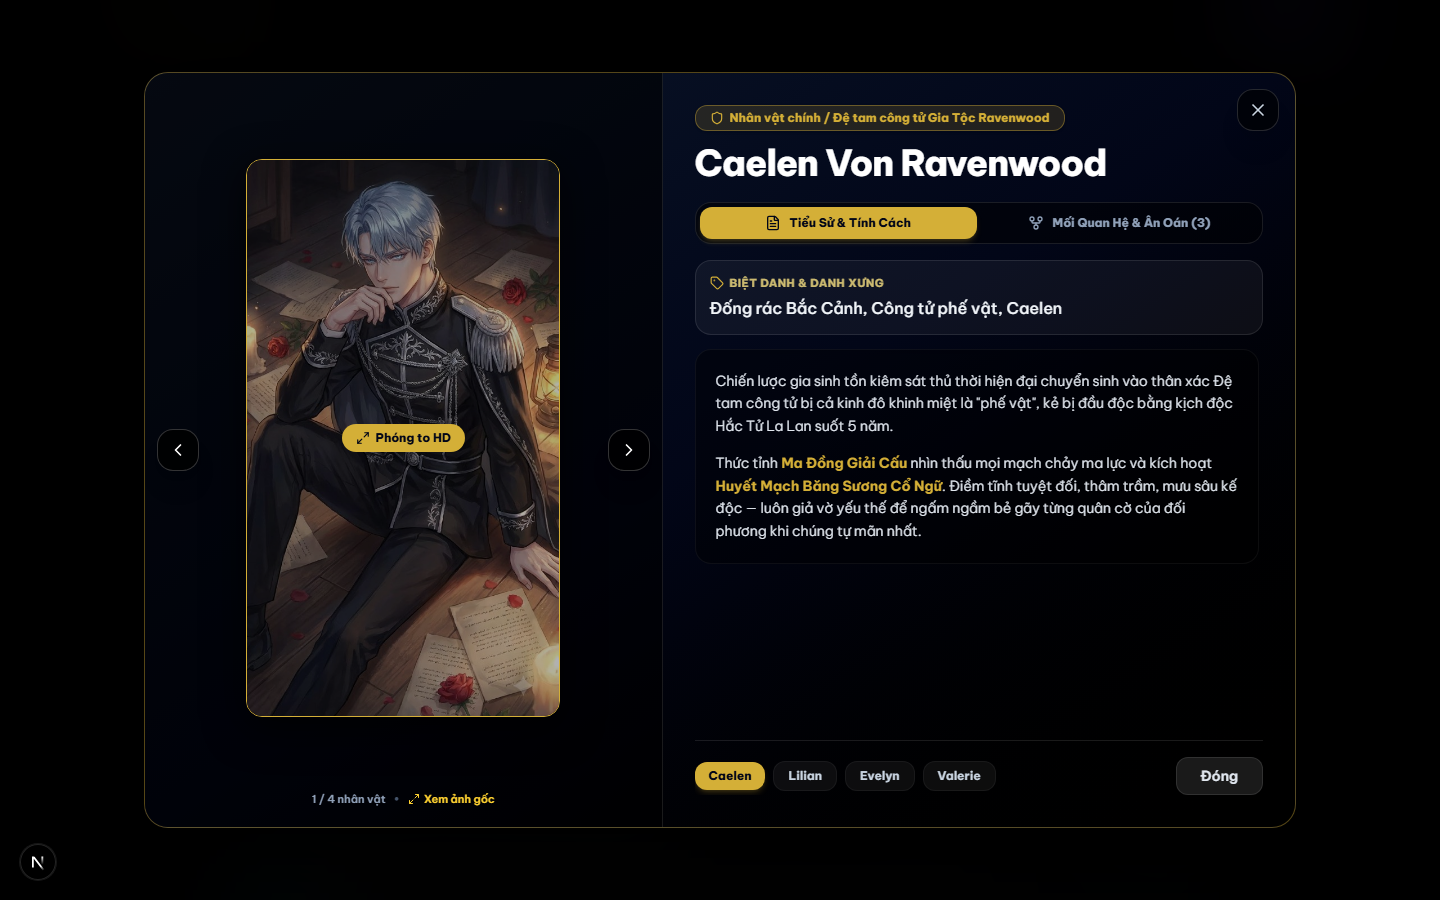
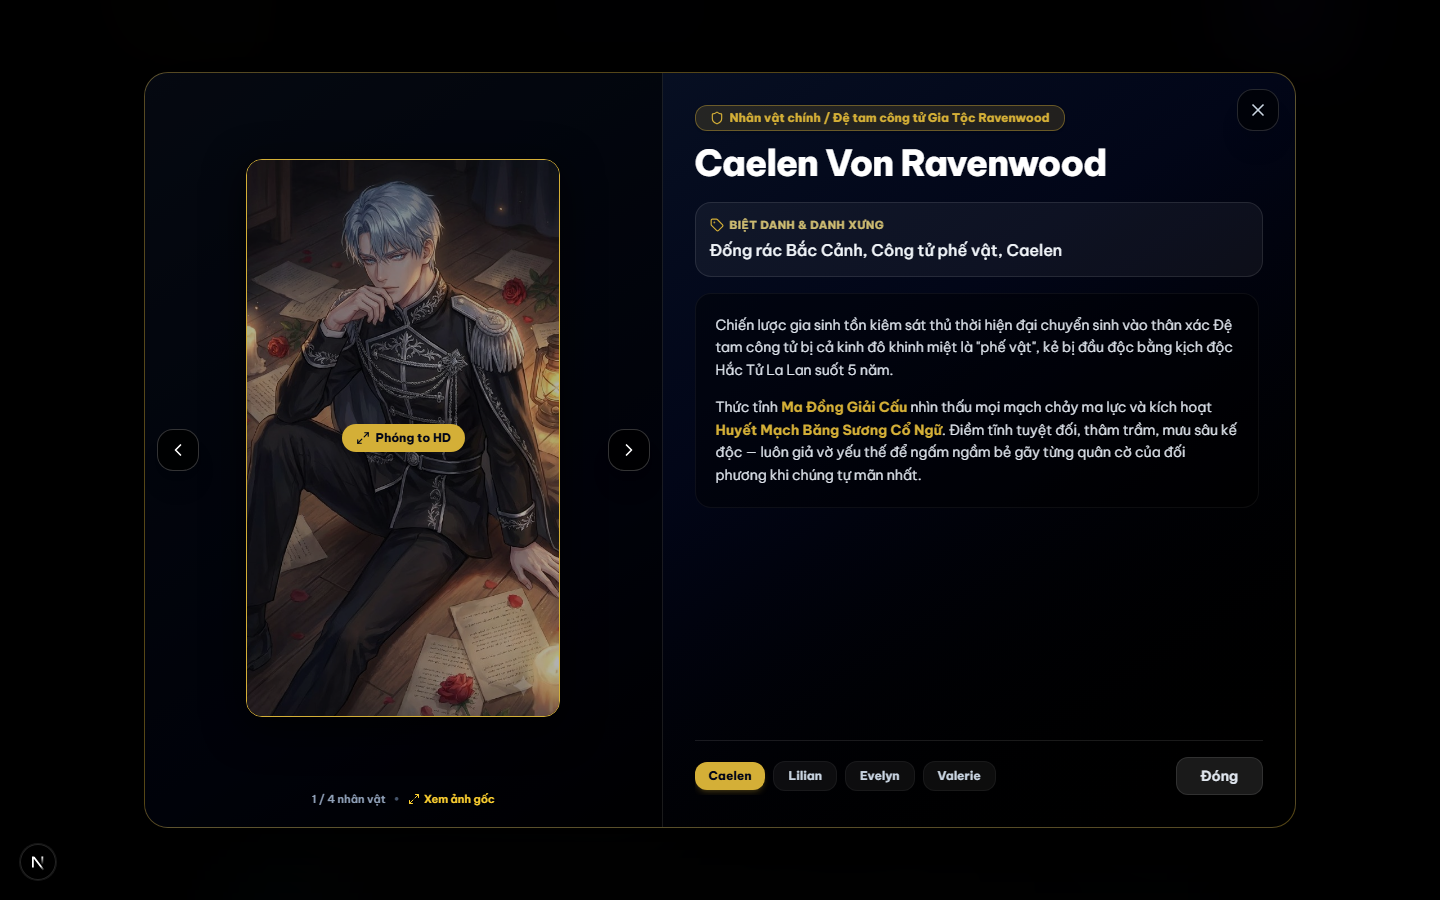
fix(ui): enhance modal viewport centering and ambient glow styling

Changed region(s): [[0.4688, 0.2178, 0.875, 0.6222]]

diff --git a/src/components/CharacterGallery.tsx b/src/components/CharacterGallery.tsx
@@ -233,18 +233,18 @@ export function CharacterGallery({ characters }: CharacterGalleryProps) {
       </div>
 
       {/* ========================================================================= */}
-      {/* UNIVERSAL CHARACTER DOSSIER MODAL (PORTALED TO BODY - ALWAYS CENTERED) */}
+      {/* UNIVERSAL CHARACTER DOSSIER MODAL (PORTALED TO BODY - ALWAYS CENTERED IN FULL VIEWPORT) */}
       {/* ========================================================================= */}
       {mounted && selectedChar && !isFullscreenImage && createPortal(
         <div
-          className="fixed inset-0 z-50 flex items-center justify-center p-4 sm:p-6 md:p-8 bg-black/95 backdrop-blur-2xl animate-in fade-in duration-200"
+          className="fixed inset-0 top-0 left-0 w-screen h-screen z-[9999] flex items-center justify-center p-4 sm:p-6 md:p-8 bg-black/90 backdrop-blur-2xl animate-in fade-in duration-200"
           onClick={() => setSelectedIndex(null)}
         >
           {/* ========================================================================= */}
           {/* DESKTOP SPLIT-SCREEN VIEW (>= md screens) */}
           {/* ========================================================================= */}
           <div
-            className="hidden md:flex relative w-full md:max-w-5xl lg:max-w-6xl h-[84vh] bg-gradient-to-br from-slate-900 via-slate-950 to-black border border-[#d4af37]/40 rounded-3xl shadow-[0_25px_80px_rgba(0,0,0,0.95)] overflow-hidden animate-in zoom-in-95 duration-200"
+            className="hidden md:flex relative w-full md:max-w-5xl lg:max-w-6xl h-[84vh] bg-gradient-to-br from-slate-900 via-slate-950 to-black border-2 border-[#d4af37]/50 rounded-3xl shadow-[0_0_90px_rgba(212,175,55,0.25)] overflow-hidden animate-in zoom-in-95 duration-200 m-auto"
             onClick={(e) => e.stopPropagation()}
           >
             {/* Close Button Desktop */}
@@ -384,7 +384,7 @@ export function CharacterGallery({ characters }: CharacterGalleryProps) {
           {/* CENTERED MOBILE MODAL VIEW (< md screens) */}
           {/* ========================================================================= */}
           <div
-            className="md:hidden relative w-full max-w-lg bg-gradient-to-b from-slate-900 via-slate-950 to-black border border-[#d4af37]/40 rounded-3xl p-5 sm:p-6 shadow-[0_20px_70px_rgba(0,0,0,0.95)] max-h-[82vh] overflow-y-auto flex flex-col space-y-4 animate-in zoom-in-95 duration-200 my-auto"
+            className="md:hidden relative w-full max-w-lg bg-gradient-to-b from-slate-900 via-slate-950 to-black border-2 border-[#d4af37]/50 rounded-3xl p-5 sm:p-6 shadow-[0_0_90px_rgba(212,175,55,0.25)] max-h-[85vh] overflow-y-auto flex flex-col space-y-4 animate-in zoom-in-95 duration-200 m-auto"
             onClick={(e) => e.stopPropagation()}
           >
             {/* Mobile Hero Bar: Side-by-Side (Avatar + Name/Role) */}
@@ -500,7 +500,7 @@ export function CharacterGallery({ characters }: CharacterGalleryProps) {
       {/* FULLSCREEN IMMERSIVE LIGHTBOX (PORTALED TO BODY) */}
       {mounted && selectedChar && isFullscreenImage && createPortal(
         <div
-          className="fixed inset-0 z-50 flex items-center justify-center bg-black/95 backdrop-blur-2xl p-4 sm:p-8 animate-in fade-in duration-200"
+          className="fixed inset-0 top-0 left-0 w-screen h-screen z-[99999] flex items-center justify-center bg-black/95 backdrop-blur-2xl p-4 sm:p-8 animate-in fade-in duration-200"
           onClick={() => setIsFullscreenImage(false)}
         >
           {/* Top Bar inside Fullscreen Lightbox */}

diff --git a/src/components/LoreGallery.tsx b/src/components/LoreGallery.tsx
@@ -170,14 +170,14 @@ export function LoreGallery({ lores }: LoreGalleryProps) {
         })}
       </div>
 
-      {/* Lore Detail Modal (Always Centered Dialog on All Devices - Portaled to Body) */}
+      {/* Lore Detail Modal (Always Centered in Full Viewport - Portaled to Body) */}
       {mounted && selectedLore && createPortal(
         <div
-          className="fixed inset-0 z-50 flex items-center justify-center p-4 sm:p-6 md:p-8 bg-black/90 backdrop-blur-2xl animate-in fade-in duration-200 overflow-y-auto"
+          className="fixed inset-0 top-0 left-0 w-screen h-screen z-[9999] flex items-center justify-center p-4 sm:p-6 md:p-8 bg-black/90 backdrop-blur-2xl animate-in fade-in duration-200"
           onClick={() => setSelectedLore(null)}
         >
           <div
-            className="relative w-full max-w-lg sm:max-w-xl md:max-w-2xl bg-gradient-to-b from-slate-900 via-slate-950 to-black border border-cyan-500/40 rounded-3xl p-5 sm:p-7 md:p-8 shadow-[0_20px_70px_rgba(0,0,0,0.95)] space-y-4 sm:space-y-5 max-h-[82vh] overflow-y-auto animate-in zoom-in-95 duration-200 my-auto"
+            className="relative w-full max-w-lg sm:max-w-xl md:max-w-2xl bg-gradient-to-b from-slate-900 via-slate-950 to-black border-2 border-cyan-500/50 rounded-3xl p-6 sm:p-8 shadow-[0_0_80px_rgba(6,182,212,0.35)] space-y-5 max-h-[85vh] overflow-y-auto animate-in zoom-in-95 duration-200 m-auto"
             onClick={(e) => e.stopPropagation()}
           >
             <div className="flex items-start justify-between border-b border-white/10 pb-4">
